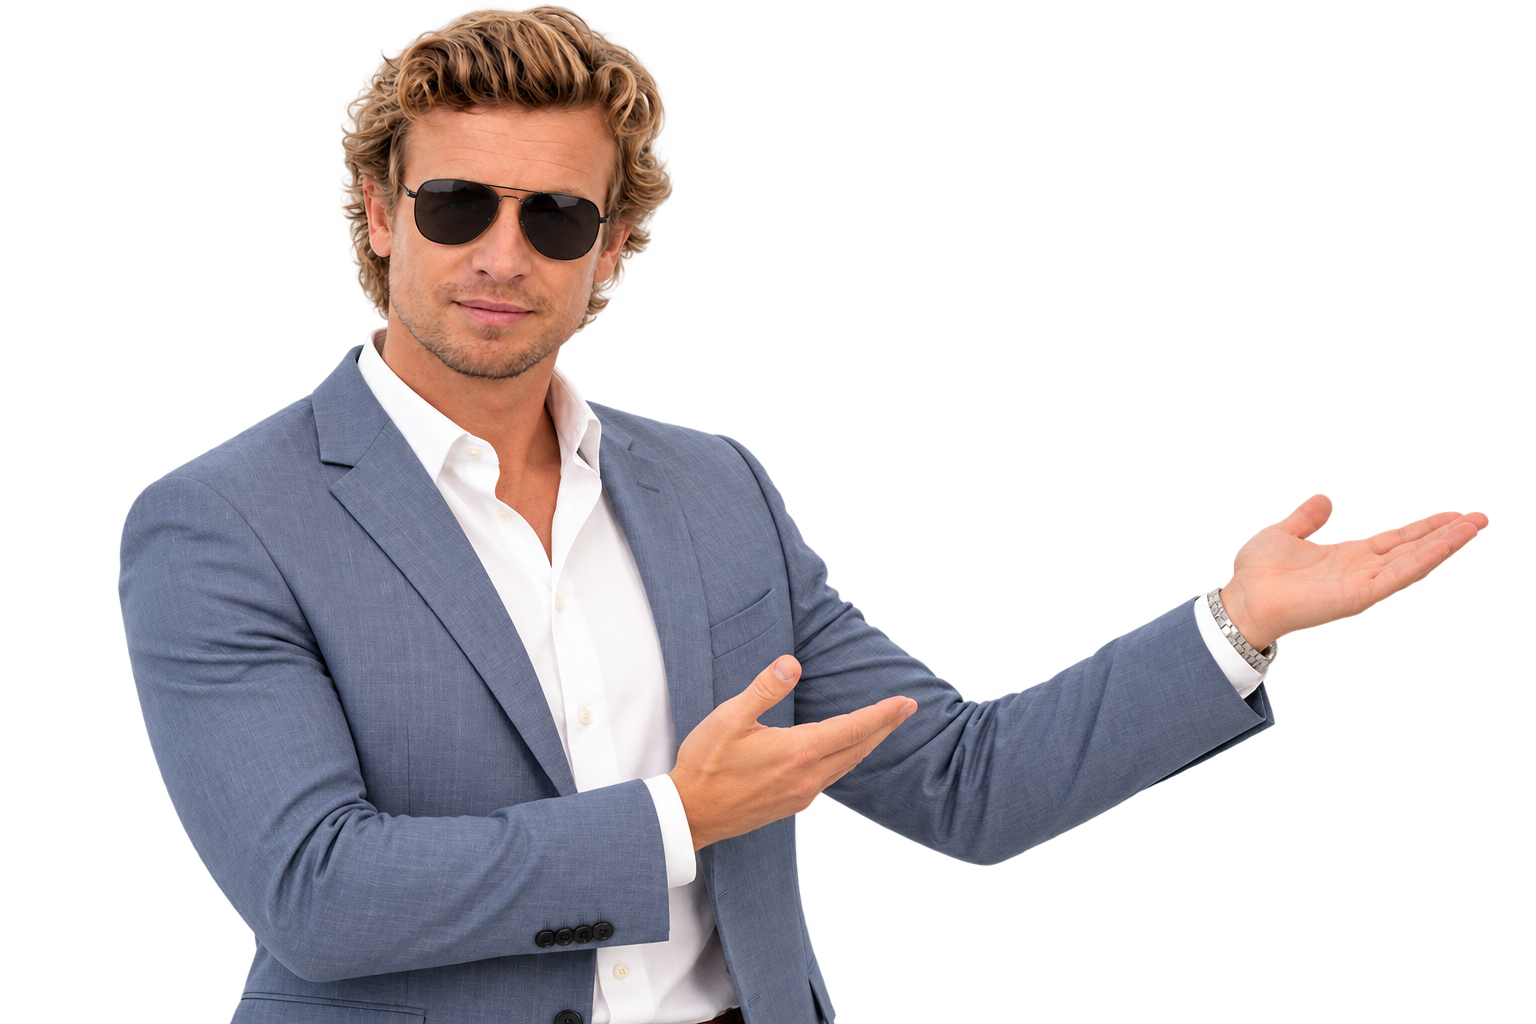
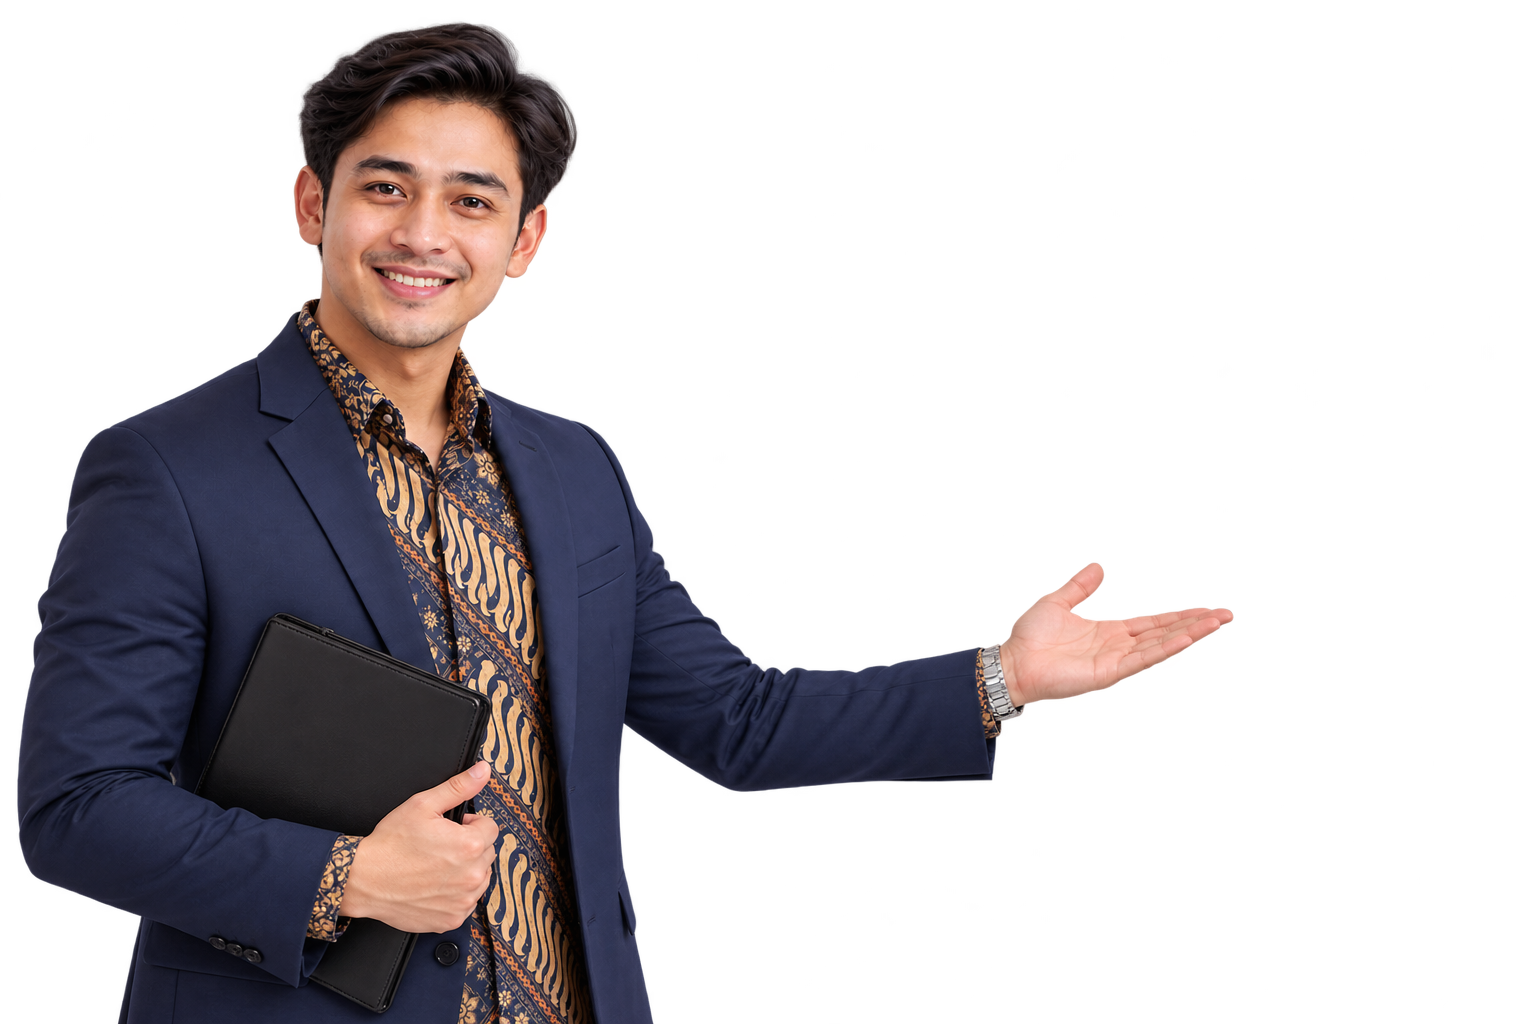
feat: update agent images and adjust dimensions for reservation and services scenes

diff --git a/resources/views/rental/agent.blade.php b/resources/views/rental/agent.blade.php
@@ -2,9 +2,9 @@
 @php
     $sceneNumber = ['showroom' => 1, 'vehicles' => 2, 'vehicle' => 2, 'services' => 3, 'service' => 3, 'info' => 4, 'reservation' => 5, 'staff' => 6][$scene] ?? 1;
     $figures = [
-        'reservation' => ['agent-reservation.png', 833, 1000],
-        'services' => ['agent-services.png', 833, 1000],
-        'service' => ['agent-services.png', 833, 1000],
+        'reservation' => ['agent-reservation.png', 1145, 1374],
+        'services' => ['agent-services.png', 1145, 1374],
+        'service' => ['agent-services.png', 1145, 1374],
     ];
     [$figure, $figureWidth, $figureHeight] = $figures[$scene] ?? ['agent-pointing.png', 1536, 1024];
 @endphp

diff --git a/resources/views/rental/show.blade.php b/resources/views/rental/show.blade.php
@@ -13,7 +13,7 @@
             @include('rental.narrator', ['text' => $intro, 'key' => 'showroom'])
         </div>
 
-        <img src="{{ asset('images/character/agent-sunglasses.png') }}" alt="{{ $showroom['assistant'] }}" class="hero-figure" width="833" height="1000" decoding="async">
+        <img src="{{ asset('images/character/agent-hero.png') }}" alt="{{ $showroom['assistant'] }}" class="hero-figure" width="1312" height="1199" decoding="async">
 
         <p class="hero-index" aria-hidden="true">001</p>
 
